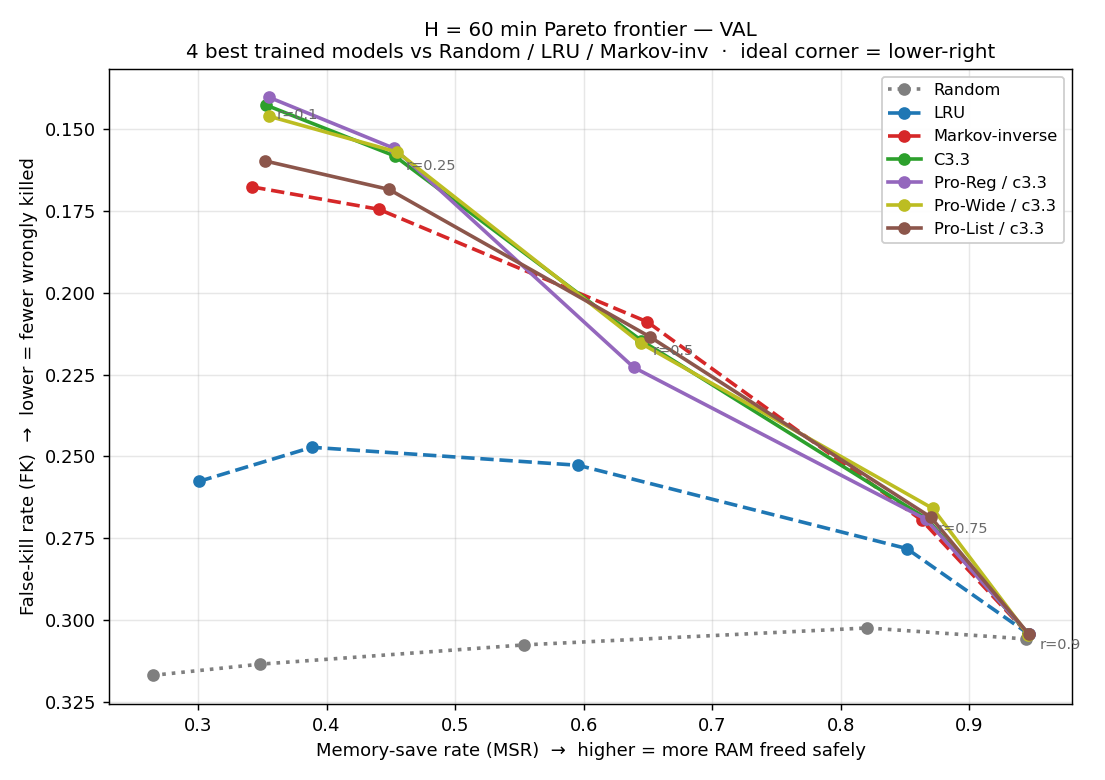
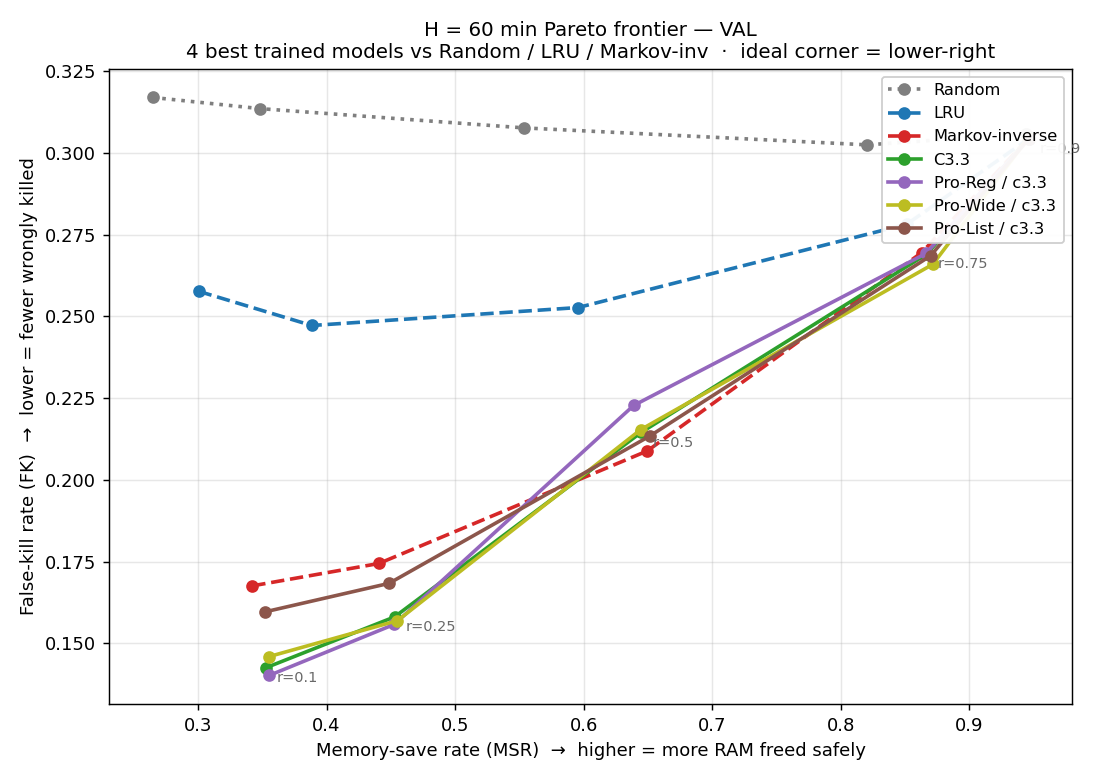
Pareto figure: don't invert y-axis
The y-axis (false-kill rate) labels were running top-to-bottom (0.08 at top,
0.24 at bottom) because of `plt.gca().invert_yaxis()`, which is visually
unconventional and made the numbers harder to read. Removed the inversion so
the y-axis labels increase bottom-to-top as usual.

The "ideal corner" remains at lower-right since FK values for the
trained models are simply smaller than the baselines'; they naturally
cluster in the lower portion of the chart.

diff --git a/app_usage_data/scripts/39_pareto_focused.py b/app_usage_data/scripts/39_pareto_focused.py
@@ -76,7 +76,9 @@ def plot_one(split):
     plt.title(f"H = 60 min Pareto frontier — {split.upper()}\n"
               f"4 best trained models vs Random / LRU / Markov-inv  ·  ideal corner = lower-right",
               fontsize=11)
-    plt.gca().invert_yaxis()
+    # y-axis is NOT inverted: numbers increase top→bottom naturally.
+    # Low FK still ends up at the bottom because FK values are smaller for the
+    # better models, which puts them in the lower portion of the plot.
     plt.legend(loc="upper right", fontsize=9, framealpha=0.95)
     plt.grid(True, alpha=0.3)
     plt.tight_layout()
